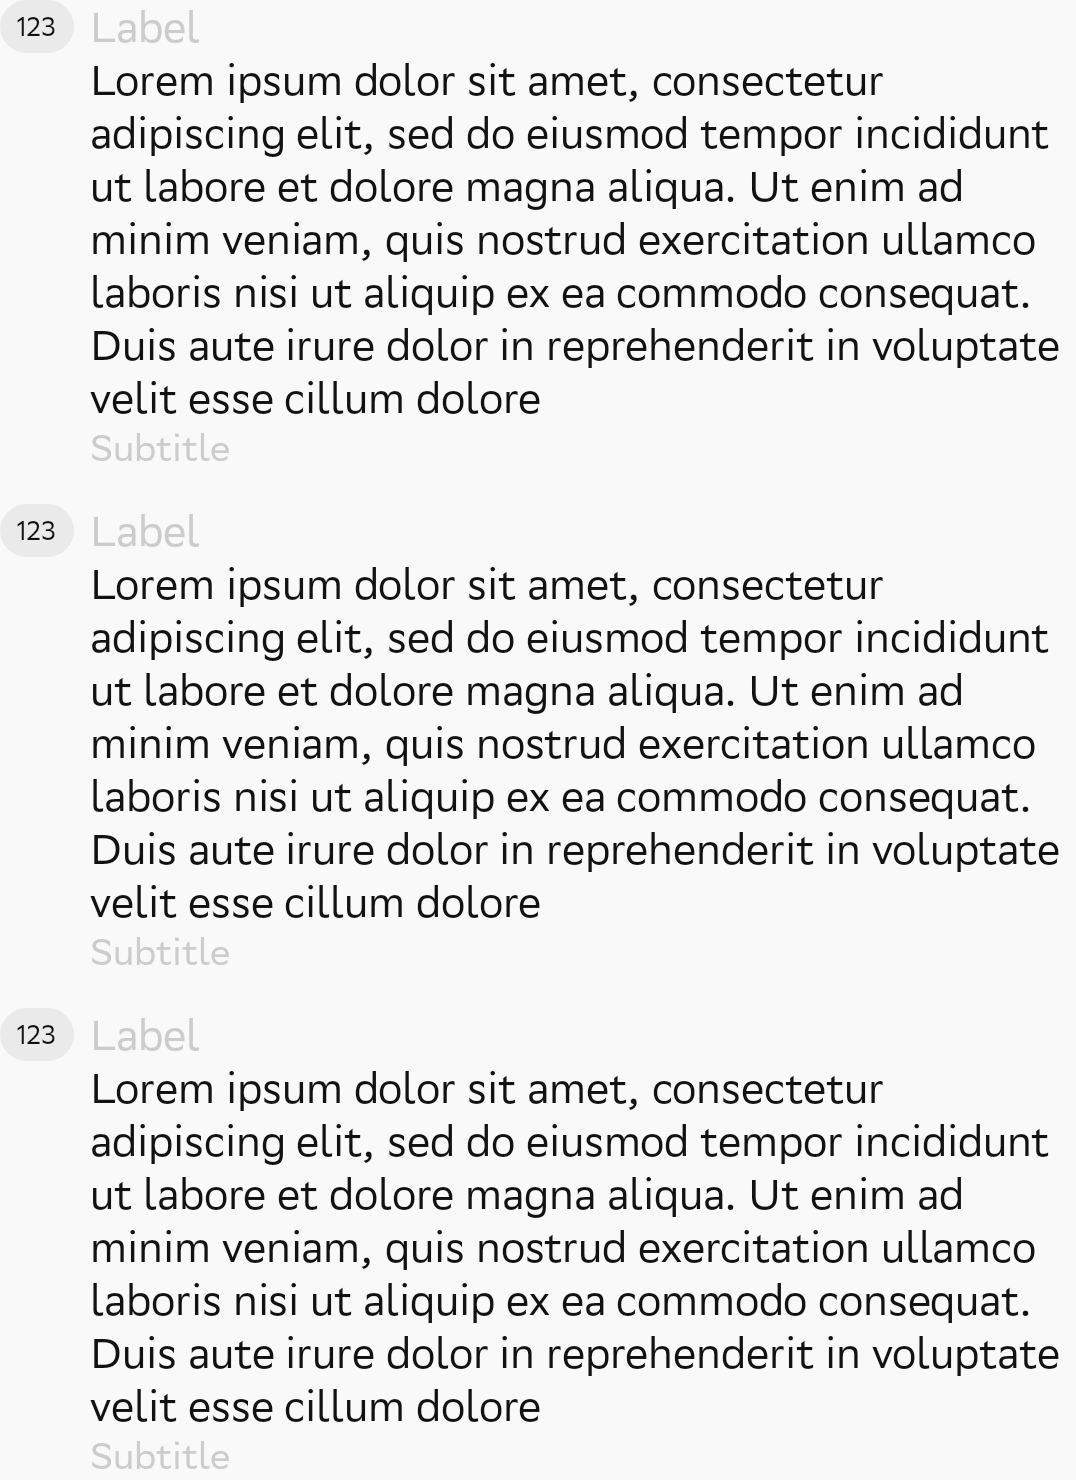
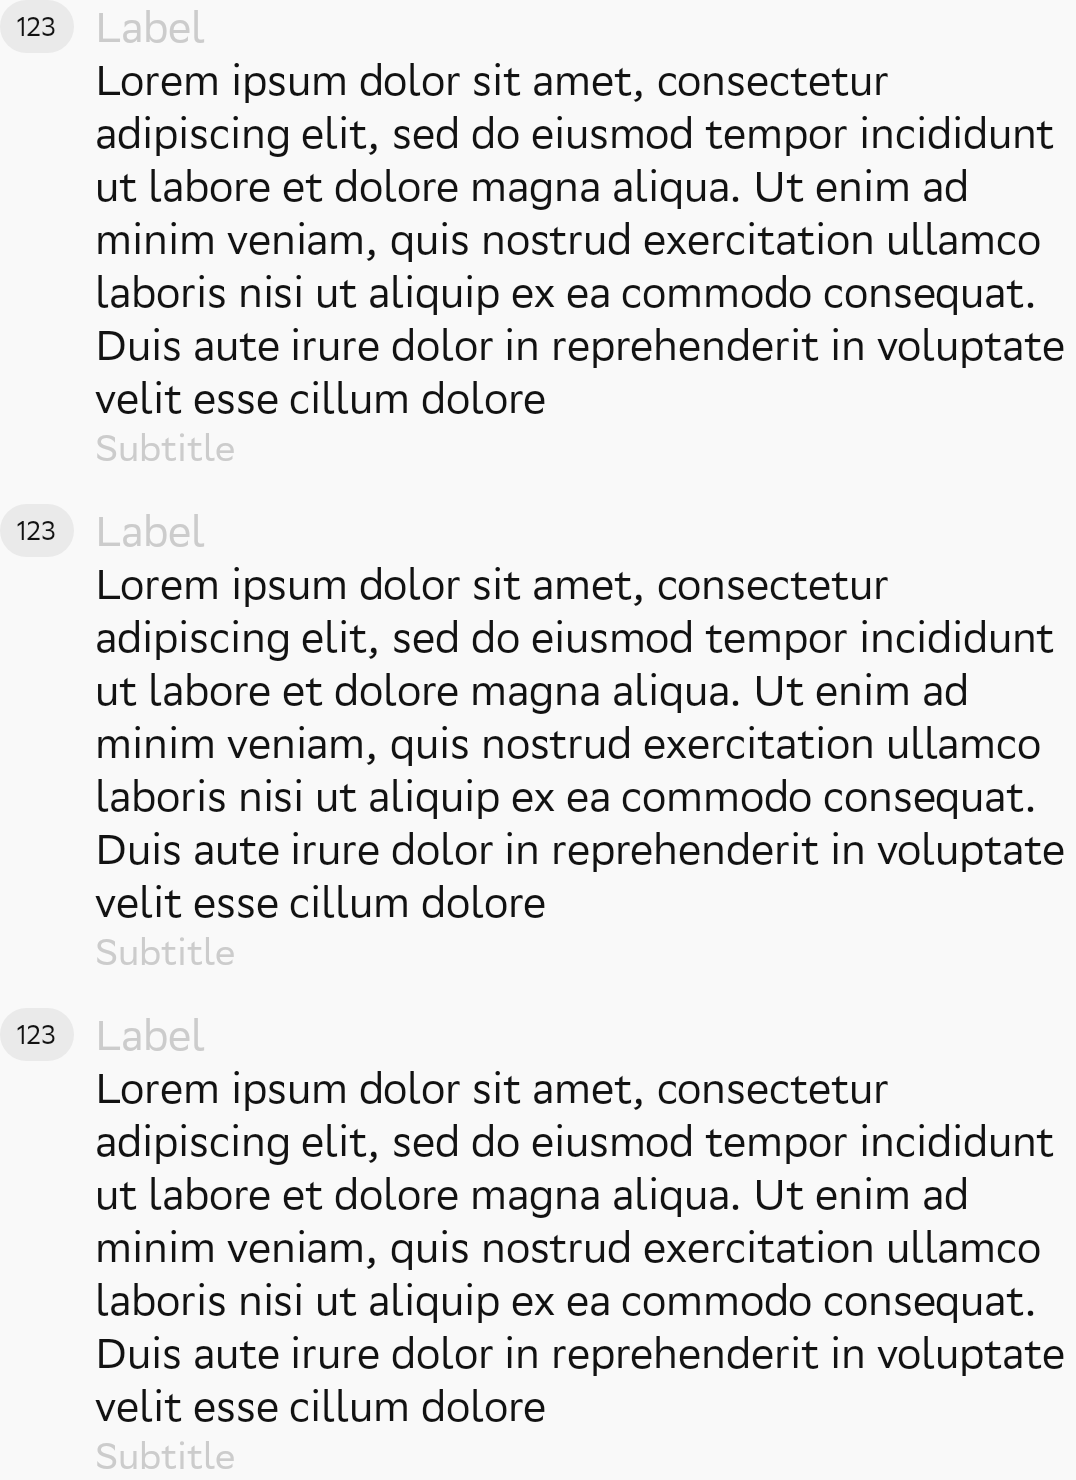
feat(sdds-alibs/plasma-homeds-compose): contentStartPadding was actualized via figma template

Changed region(s): [[0.0613, 0.0, 1.0, 0.3108], [0.092, 0.3419, 1.0, 0.6527], [0.092, 0.6838, 1.0, 0.9946]]

diff --git a/tokens/plasma.homeds.compose/src/main/kotlin/com/sdds/plasma/homeds/styles/listitem/ListNumberedItemStyles.kt b/tokens/plasma.homeds.compose/src/main/kotlin/com/sdds/plasma/homeds/styles/listitem/ListNumberedItemStyles.kt
@@ -67,7 +67,7 @@ public val ListNumberedItem.S: WrapperListNumberedItemS
             paddingEnd(0.0.dp)
             paddingTop(0.0.dp)
             paddingBottom(0.0.dp)
-            contentPaddingStart(6.0.dp)
+            contentPaddingStart(8.0.dp)
         }
         .wrap(::WrapperListNumberedItemS)
 
@@ -84,6 +84,6 @@ public val ListNumberedItem.M: WrapperListNumberedItemM
             paddingEnd(0.0.dp)
             paddingTop(0.0.dp)
             paddingBottom(0.0.dp)
-            contentPaddingStart(6.0.dp)
+            contentPaddingStart(8.0.dp)
         }
         .wrap(::WrapperListNumberedItemM)
